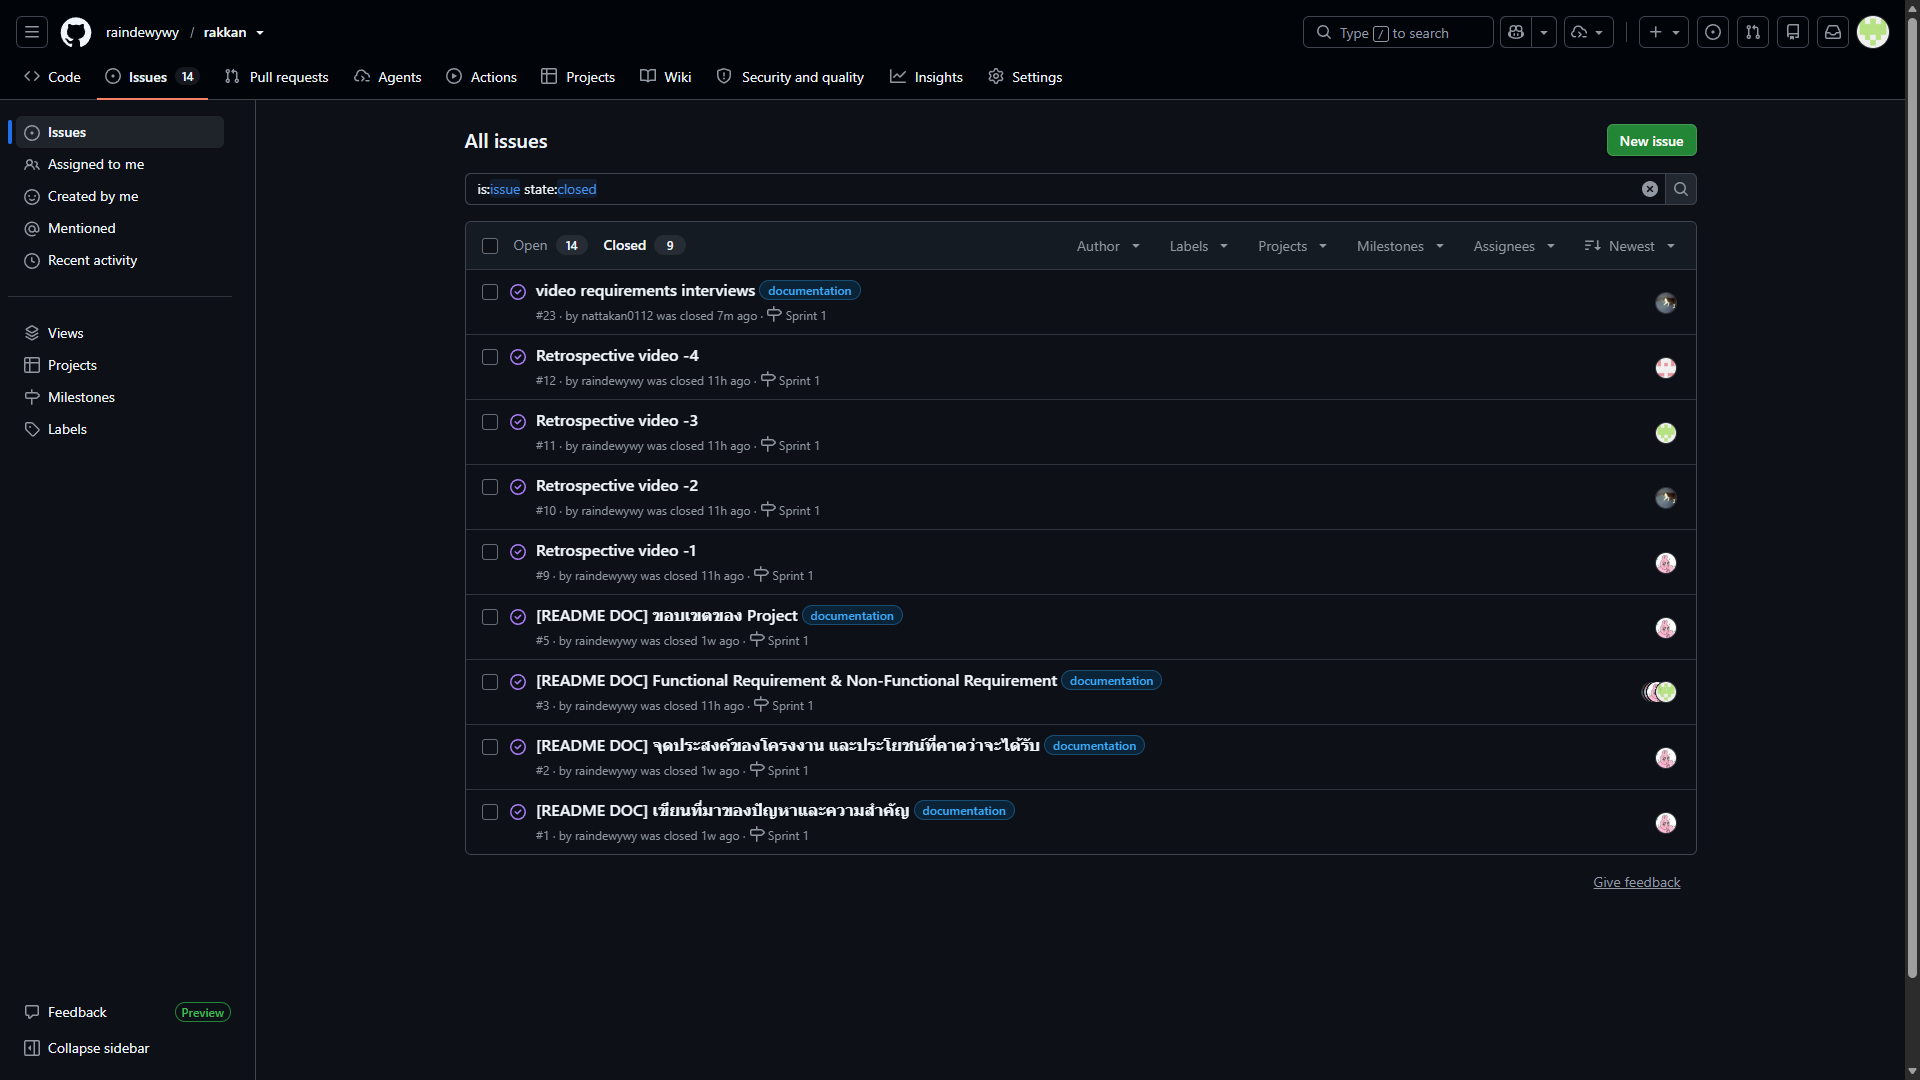
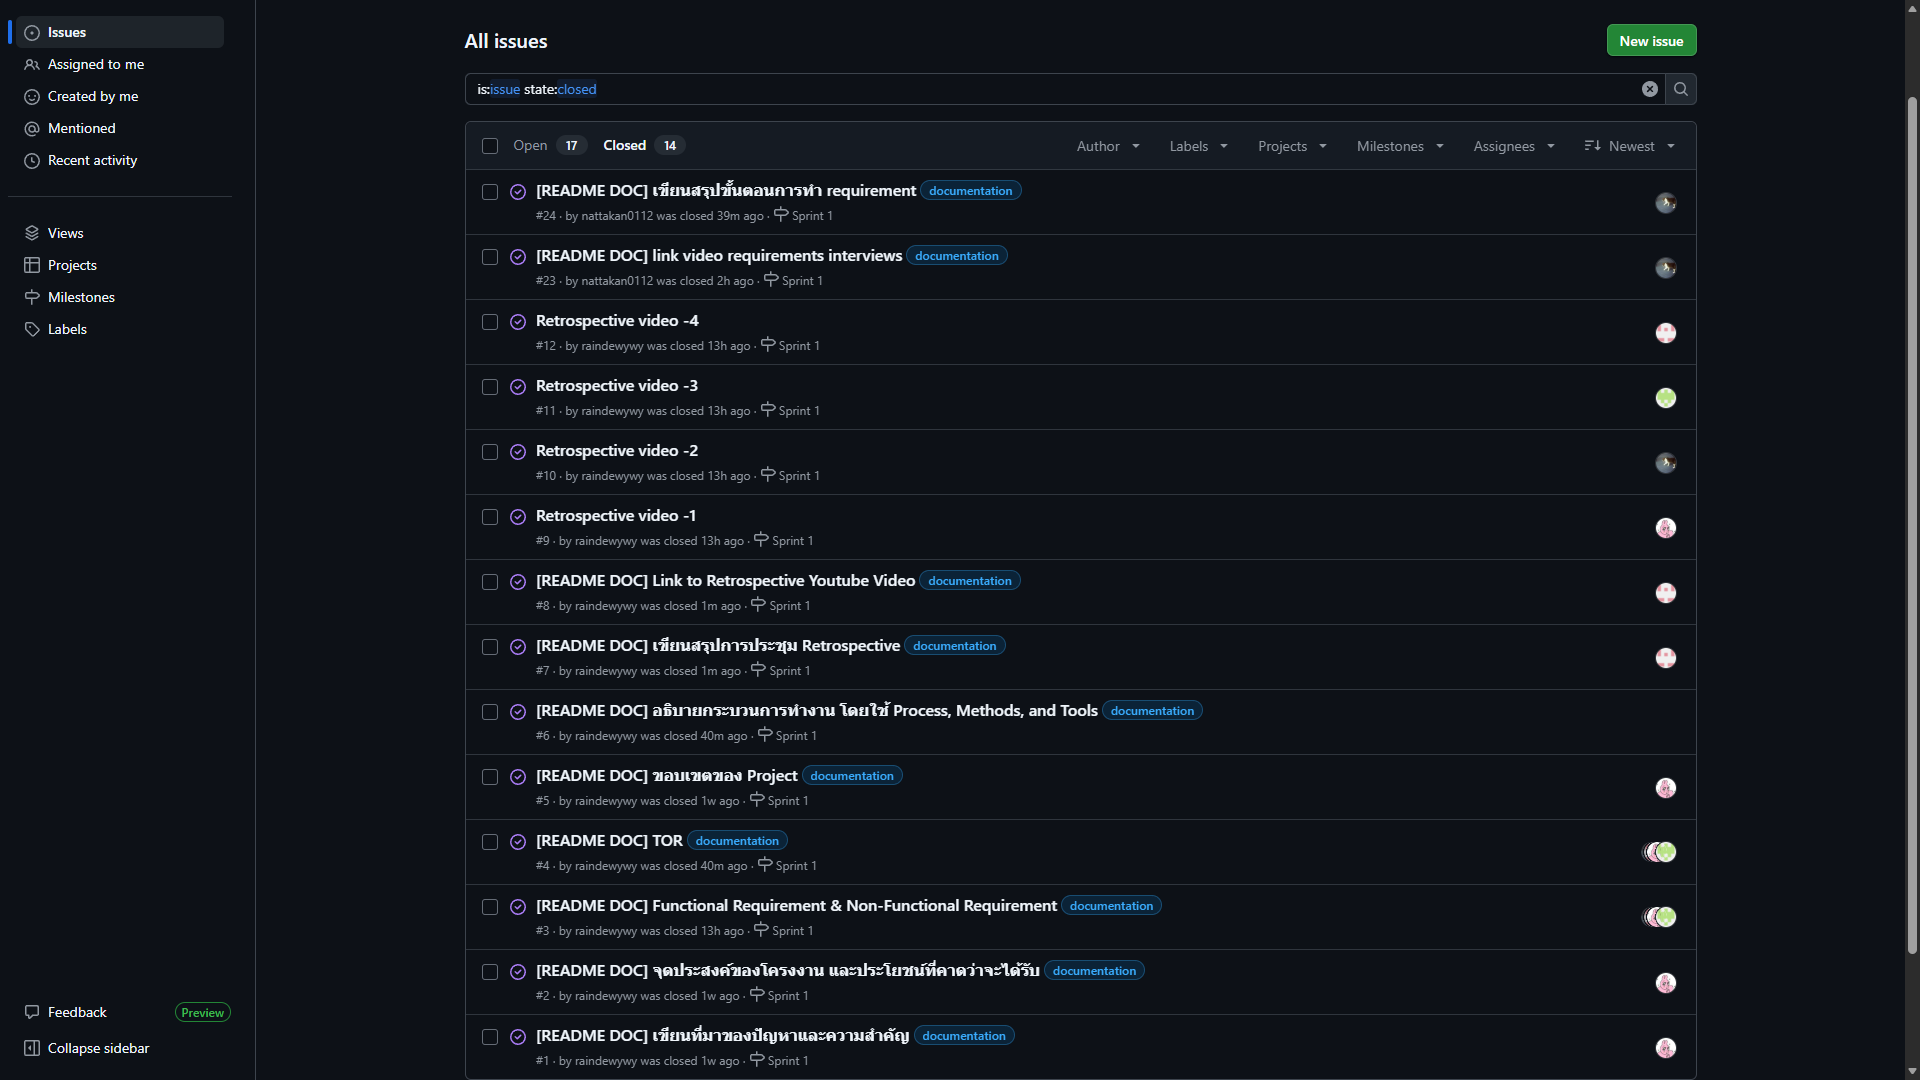
docs: finalize section 10 with all 31 github issues and update screenshots

diff --git a/README.md b/README.md
@@ -156,6 +156,14 @@
 | **#21** | FR-2: เลือกประเภทการดูดวง (Love, Career, Finance, etc.) | User Story | `user-story` | *[รอกำหนด]* | Open |
 | **#22** | FR-1: หน้าแรกและคำอธิบายเว็บไซต์ (Homepage & Intro) | User Story | `user-story` | *[รอกำหนด]* | Open |
 | **#23** | video requirements interviews (สัมภาษณ์เพื่อเก็บข้อมูล Requirements) | Documentation | `documentation` | Sprint 1 | Closed |
+| **#24** | [README DOC] เขียนสรุปขั้นตอนการทำ requirement | Documentation | `documentation` | Sprint 1 | Open |
+| **#25** | NFR-1: หน้าเว็บโหลดและตอบสนองอย่างรวดเร็ว (Fast Loading & Response) | User Story | `user-story` | *[รอกำหนด]* | Open |
+| **#26** | NFR-2: รองรับการใช้งาน Mobile, Tablet, Desktop (Responsive Design) | User Story | `user-story` | *[รอกำหนด]* | Open |
+| **#27** | NFR-3: รองรับเบราว์เซอร์ Chrome, Edge, Firefox, Safari (Cross-browser) | User Story | `user-story` | *[รอกำหนด]* | Open |
+| **#28** | NFR-4: ไม่จัดเก็บข้อมูลส่วนตัวของผู้ใช้บน Server (Data Privacy) | User Story | `user-story` | *[รอกำหนด]* | Open |
+| **#29** | NFR-5: ประมวลผลใน Browser ไม่ส่งข้อมูลไป Database (Client-side Only) | User Story | `user-story` | *[รอกำหนด]* | Open |
+| **#30** | NFR-6: โครงสร้างระบบรองรับการเพิ่มประเภทคำทำนายได้ง่าย (Extensibility) | User Story | `user-story` | *[รอกำหนด]* | Open |
+| **#31** | NFR-7: ระบบไม่ล่มเมื่อผู้ใช้กรอกข้อมูลไม่ครบ (Graceful Error Handling) | User Story | `user-story` | *[รอกำหนด]* | Open |
 
 ---
 
@@ -166,7 +174,6 @@
 **ภาพหน้าจอ Sprint Backlog (GitHub Milestone "Sprint 1"):**
 
 ![Sprint Backlog Screenshot](./screenshots/backlog_overview.png)
-![Sprint Backlog Screenshot](./screenshots/sprint1-backlog_open.png)
 ![Sprint Backlog Screenshot](./screenshots/sprint1-backlog_closed.png)
 
 *ภาพหน้าจอ Milestone "Sprint 1" แสดง Progress Bar และรายการ Issue ทั้งหมดที่ถูกผูกไว้กับ Sprint 1*
@@ -178,5 +185,5 @@
 | **ชื่อ Sprint** | Sprint 1 |
 | **ระยะเวลา** | 3 กันยายน 2026 – *ยังไม่กำหนดวันสิ้นสุด* |
 | **เป้าหมายของ Sprint (Sprint Goal)** | วิเคราะห์และกำหนดขอบเขต Requirements, จัดทำโครงร่าง Product Backlog/User Story ทั้งหมด, สรุปกระบวนการทำงานลงใน README.md และบันทึก Retrospective Video สะท้อนปัญหาและแนวทางแก้ไข |
-| **Issues ใน Sprint 1** | **รวม 12 Issues:**<br>• Documentation: #1, #2, #3, #4, #5, #6, #7, #8, #23<br>• Tasks/Video: #9, #10, #11, #12 |
-| **ผลลัพธ์ที่คาดหวัง (Deliverables)** | 1. เอกสารรายงาน (README.md) หัวข้อ 1–10 ครบถ้วนสมบูรณ์<br>2. วิดีโอคลิป Retrospective จำนวน 4 คลิปพร้อมลิงก์ YouTube<br>3. Product Backlog บน GitHub Issues ที่มี User Story (#13–#22) พร้อมสำหรับการวางแผนใน Sprint ถัดไป |
+| **Issues ใน Sprint 1** | **รวม 14 Issues:**<br>• Documentation: #1, #2, #3, #4, #5, #6, #7, #8, #23, #24<br>• Tasks/Video: #9, #10, #11, #12 |
+| **ผลลัพธ์ที่คาดหวัง (Deliverables)** | 1. เอกสารรายงาน (README.md) หัวข้อ 1–10 ครบถ้วนสมบูรณ์<br>2. วิดีโอ Requirements Interview และวิดีโอ Retrospective <br>3. Product Backlog บน GitHub Issues ที่มี User Story ครบทั้ง FR และ NFR (#13–#31) พร้อมสำหรับการวางแผนใน Sprint ถัดไป |
